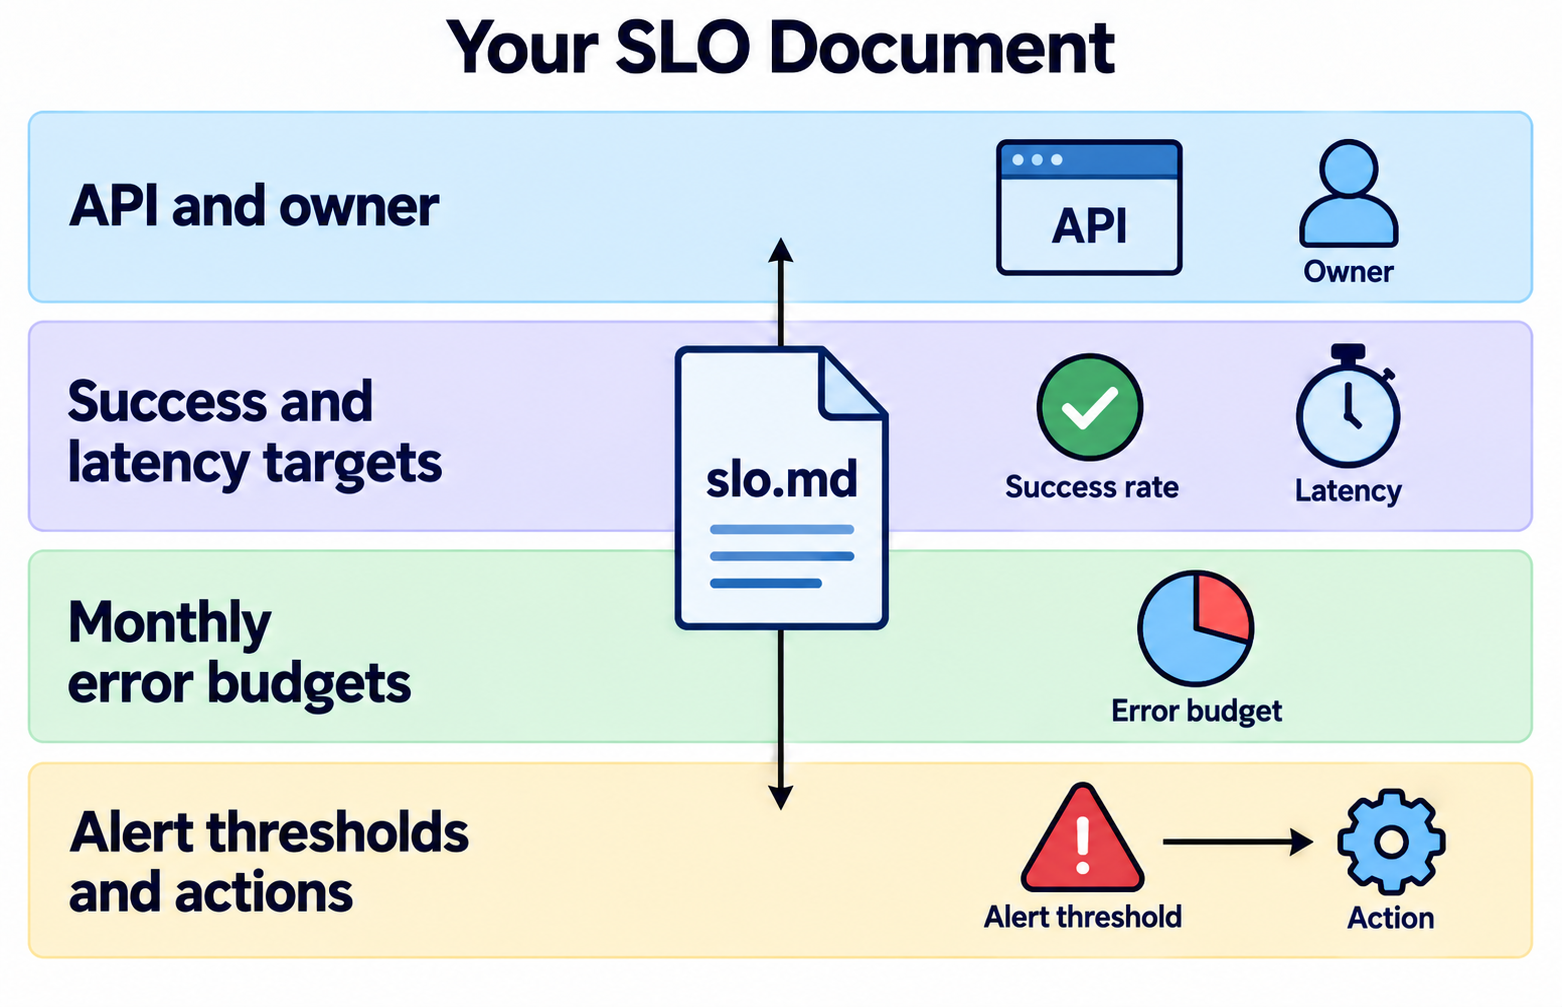
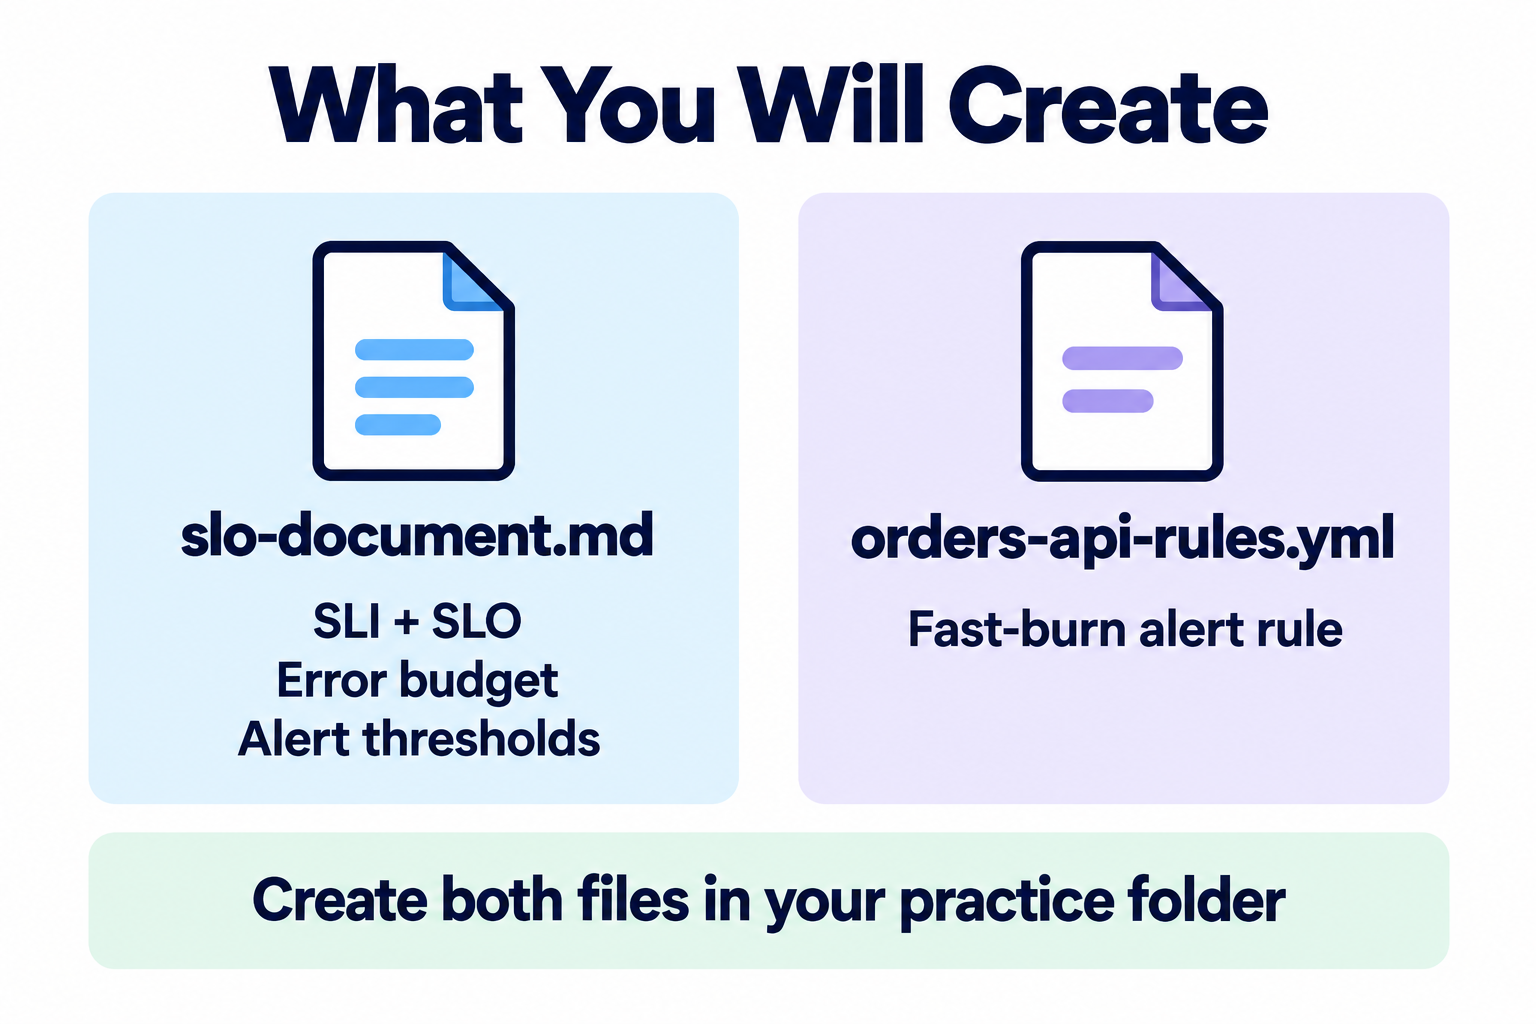
lab02

diff --git a/Milestone 1/Module 3/Lab 02/README.md b/Milestone 1/Module 3/Lab 02/README.md
@@ -1,185 +1,194 @@
-# API SLOs and Error Budgets
+# SLOs and Error Budgets
 
-![API requests become reliability targets and error budgets](images/thumb.png)
+![Set a 99.9% target, allow a 0.1% error budget, and watch for fast burn](images/thumb.png)
 
-Define good API responses, set reliability targets, and calculate how many bad responses a sample API can afford.
+An application programming interface (API) lets programs request data or actions. Define good service for an Orders API, calculate its failure allowance, and write a fast-burn alert.
 
 ## Objective
 
-![Measure results, set targets, and track budget](images/objective.png)
+![Set a target, calculate its error budget, and watch for fast burn](images/thumb.png)
 
 By the end of this lab, you can:
-- Define service level indicators (SLIs), measurements of user experience.
-- Set service level objectives (SLOs), targets for those measurements.
-- Calculate a monthly error budget and its burn-rate thresholds.
+- Define a service level indicator (SLI), a measurement of service quality.
+- Set a service level objective (SLO), a target for that measurement.
+- Calculate an error budget and choose burn-rate alerts.
 
 ## Deliverable
 
-![One SLO document contains definitions, budgets, and alerts](images/deliverable.png)
+![Create an SLO document and its supporting alert rule in a practice folder](images/deliverable.png)
 
-A Markdown file named `slo.md` with targets, query sketches, budgets, and alert thresholds. You need a text editor; Prometheus is optional.
+Build `slo-document.md` and its supporting `orders-api-rules.yml` in a separate practice folder. All content is included below.
 
-## What Are SLIs and SLOs?
+You need a Markdown editor and `promtool`, the Prometheus rule checker. No server is required. Linux setup is below; other platforms use [Prometheus downloads](https://prometheus.io/download/).
 
-![Observed API results are compared with a target](images/sli-slo.png)
+## SLI and SLO
 
-An SLI measures what happened. An SLO states how often that result should be good. A service level agreement (SLA) is a separate agreement that can include consequences for missing a promise.
+![Exclude cancellations and health checks before dividing good requests by valid requests](images/sli.png)
 
-| Term | Sample meaning |
-| --- | --- |
-| Success SLI | Fraction of requests returning HTTP 200 |
-| Success SLO | At least 99.9% return HTTP 200 |
-| Latency SLI | Fraction returning HTTP 200 within 300 ms |
-| Latency SLO | At least 99% meet that condition |
+An SLI measures results; an SLO sets the target. Our availability SLI counts requests without server errors. The gateway, the API's entry point, records each final HTTP status, a response code describing the outcome.
 
-## What Is an Error Budget?
+Here, 4xx responses count as good: the server handled an invalid request. Exclude cancelled requests, code 499, from both counts. This policy is specific to our API.
 
-![Allowed bad fraction multiplied by requests gives the budget](images/error-budget.png)
+## Error Budget and Burn Rate
 
-An error budget permits some bad service. Here, monthly means a rolling 30 days, or 720 hours. These budgets count requests, not minutes.
+![A 99.9% target permits 10,000 bad requests from ten million valid requests](images/budget.png)
 
-Budget equals total eligible requests multiplied by one minus the SLO. Keep the two budgets separate: a failed request counts against both, but a slow HTTP 200 counts only against latency.
+An error budget is the allowed bad fraction: `1 - SLO`. Multiply by valid requests to find the allowance. Monthly means rolling 30 days here.
 
-## Step 1: Define the API Contract
+Burn rate equals observed error ratio divided by allowed bad fraction. At steady traffic, a sustained 1x rate spends a fresh budget in 30 days; 14.4x spends it in 50 hours. A request-based SLI does not directly give downtime minutes.
 
-![Client requests are measured at the API gateway](images/step-1.png)
+## Step 1: Write the SLI
 
-Create `slo.md` and add this contract. The gateway observes incoming requests and their final outcomes.
+![Requests pass through exclusions before classification as good or bad](images/sli.png)
+
+Create `slo-document.md` in your practice folder and add this contract.
 
 ```markdown
-# Sample API SLO
+# Orders API SLO
 
-## Contract
-- Service: catalogue-api
-- Endpoint: GET /products
-- Owner: API team
-- Window: rolling 30 days
-- Eligible traffic: production GET /products requests received by the gateway.
-- Exclude health checks, metrics scrapes, and synthetic test traffic.
-- Count each retry as another request.
-- Success: HTTP 200. All other final statuses are bad, including 4xx and 5xx.
-- Gateway timeouts count as HTTP 504 outcomes.
-- Fast success: HTTP 200 with gateway duration at most 0.3 seconds.
-- Success target: 99.9% of eligible requests.
-- Fast-success target: 99% of eligible requests.
-- Requests that never reach the gateway require separate external monitoring.
+## SLI
+- Service: orders-api; owner: Orders API team.
+- Source: production gateway request counts.
+- Valid: completed requests, excluding code 499 and route /healthz.
+- Good: valid requests with HTTP 2xx, 3xx, or 4xx.
+- Bad: valid requests with HTTP 5xx, including gateway timeout 504.
+- SLI = good requests / valid requests.
+- Count each retry separately.
+- Use checks from outside the system for requests that never reach the gateway.
 ```
-**What this file does:** Defines which requests count and what makes each response good.
+**What this file does:** Defines the population and outcome used to measure availability.
 
 ---
 
-## Step 2: Write the SLI Queries
+## Step 2: Calculate the Error Budget
 
-![Good outcomes divided by all eligible outcomes form each SLI](images/step-2.png)
+![Subtract 4,000 failures from the 10,000-request allowance to leave 6,000](images/budget.png)
 
-Add these sketches under `Measurement`. Assume gateway metrics with `job="catalogue-api"` contain only eligible traffic. Counter `api_requests_total` counts outcomes by `status`; classic histogram `api_request_duration_seconds` records every outcome with that status and a `0.3`-second bucket.
+Append this worked example. Use actual valid request counts when evaluating a real month.
 
-```promql
-sum(increase(api_requests_total{job="catalogue-api",status="200"}[30d]))
-/
-sum(increase(api_requests_total{job="catalogue-api"}[30d]))
+```markdown
+## SLO
+- Availability target: at least 99.9%, over a rolling 30 days.
+
+## Monthly Error Budget
+- Allowed bad fraction: 1 - 0.999 = 0.001 = 0.1%.
+- Allowed bad requests: 10,000,000 x 0.001 = 10,000.
+
+| Measure | Calculation or value |
+| --- | --- |
+| Valid requests | 10,000,000 |
+| Allowed failures | 10,000 |
+| Observed failures | 4,000 |
+| Remaining budget | 10,000 - 4,000 = 6,000 |
+| Consumed budget | 4,000 / 10,000 = 40% |
+
+- Observed SLI: 1 - 4,000 / 10,000,000 = 99.96%; target met.
 ```
-**Explanation:** Divides successful requests by all eligible requests across the rolling window.
-
-```promql
-sum(increase(api_request_duration_seconds_bucket{job="catalogue-api",status="200",le="0.3"}[30d]))
-/
-sum(increase(api_request_duration_seconds_count{job="catalogue-api"}[30d]))
-```
-**Explanation:** Divides fast successful responses by all eligible responses, including failures.
-
-Results are fractions: `0.999` means 99.9%. Prometheus `increase()` accounts for counter resets and estimates the increase over the selected window. See the official [query functions](https://prometheus.io/docs/prometheus/latest/querying/functions/) and [histogram guidance](https://prometheus.io/docs/practices/histograms/).
-
-Initialize expected status series, including HTTP 200, to zero. A zero denominator means no traffic, not perfect service. Missing samples mean unknown health: check telemetry separately, and retain at least 30 days of data.
+**What this file does:** Records a checkable target, budget, and measured outcome.
 
 ---
 
-## Step 3: Calculate the Monthly Budgets
+## Step 3: Set the Burn-Rate Thresholds
 
-![Ten million requests produce two separate budgets](images/step-3.png)
+![Fast and medium burn page the on-call engineer; slow burn creates a ticket](images/burn-rate.png)
 
-Add a `Budgets` section using this worked example: 10,000,000 eligible requests, 4,000 failed responses, and another 26,000 slow successful responses during 30 days.
+Copy this table under `## Alerts`. Both windows must exceed their threshold. The longer window detects sustained damage; the shorter confirms it continues.
 
-| Indicator | Allowed bad fraction | Allowed bad | Observed bad | Remaining |
+| Speed | Long + short window | Burn threshold | Error ratio | Action |
 | --- | --- | --- | --- | --- |
-| Success | 0.001 | 10,000 | 4,000 | 6,000 |
-| Fast success | 0.01 | 100,000 | 30,000 | 70,000 |
+| Fast | 1h + 5m | >14.4x | >1.44% | Page now |
+| Medium | 6h + 30m | >6x | >0.60% | Page now |
+| Slow | 3d + 6h | >1x | >0.10% | Ticket |
 
-Observed SLIs are 99.96% success and 99.7% fast success. Both pass. Recalculate allowances from actual traffic. A negative remaining budget means the objective was missed.
+These windows follow [Google's reliability guidance](https://sre.google/workbook/alerting-on-slos/). For example, `14.4 x 0.001 = 1.44%` errors spends 2% of the budget per hour at steady traffic. A page calls the on-call engineer; a ticket schedules work.
 
----
-
-## Step 4: Set Burn-Rate Thresholds
-
-![A sustained bad-request rate consumes the budget](images/step-4.png)
-
-Burn rate is the observed bad fraction divided by the allowed bad fraction. At 1x, a sustained rate uses a full budget in 30 days. At 10x, it uses one in three days, assuming steady traffic and an initially unused budget.
-
-Add these thresholds to an `Alerts` section. A page calls the on-call engineer; a ticket schedules investigation. Both windows in a row must exceed the threshold for the same SLI.
-
-| Action | Burn rate | Long window | Short window | Budget share in long window |
-| --- | --- | --- | --- | --- |
-| Page | 14.4x | 1 hour | 5 minutes | 2% |
-| Page | 6x | 6 hours | 30 minutes | 5% |
-| Ticket | 3x | 1 day | 2 hours | 10% |
-
-These pairs follow [Google's SRE alerting guidance](https://sre.google/workbook/alerting-on-slos/). Budget share equals burn rate times window hours divided by 720, assuming steady traffic. Use actual request counts to measure budget consumption when traffic varies.
+Add the response policy: investigate pages immediately; review tickets next working day. When the rolling budget is exhausted, pause nonessential releases and prioritize reliability fixes.
 
 ---
 
-## 5. Run the Following Queries in Prometheus
+## Step 4: Write the Fast-Burn Rule
 
-![Worked query results show budget use and fast burn](images/run-output.png)
+![Both error-ratio windows must exceed 1.44% for two minutes](images/alert-workflow.png)
 
-Calculate these values by hand in `slo.md`, or paste each expression into Prometheus. These expressions need no API metrics.
+Create `orders-api-rules.yml` beside your document. The counter `http_requests_total` counts requests; labels `job`, `code`, and `route` identify the service, response code, and path. Each label combination is a time series, a sequence of measurements. Start good-response counts at zero.
 
-```promql
-10000000 * (1 - 0.999)
+```yaml
+groups:
+  - name: orders-api-slo
+    rules:
+      - alert: OrdersAPIErrorBudgetBurnFast
+        expr: |
+          (
+            1 - sum(rate(http_requests_total{job="orders-api",code!~"5..|499",route!="/healthz"}[1h]))
+            / sum(rate(http_requests_total{job="orders-api",code!="499",route!="/healthz"}[1h]))
+            > 0.0144
+          )
+          and
+          (
+            1 - sum(rate(http_requests_total{job="orders-api",code!~"5..|499",route!="/healthz"}[5m]))
+            / sum(rate(http_requests_total{job="orders-api",code!="499",route!="/healthz"}[5m]))
+            > 0.0144
+          )
+        for: 2m
+        labels:
+          severity: page
+        annotations:
+          summary: "orders-api is burning its error budget fast"
 ```
-**Explanation:** Calculates the success budget of approximately 10,000 requests.
+**What this file does:** Calculates one minus the good-request fraction and checks both fast-burn windows.
 
-```promql
-4000 / 10000 * 100
+`rate()` estimates requests per second, handling counts that restart at zero. `for: 2m` requires two minutes of matching results. Missing measurements or no traffic means unknown health, not 100% availability.
+
+Reference this file as the fast-alert query sketch. Medium and slow rules are extension work using the table's settings. Adjust alerts for low traffic before production use.
+
+---
+
+## 5. Run the Following Commands in the Terminal
+
+![Promtool reports SUCCESS: 1 rules found for orders-api-rules.yml](images/run-output.png)
+
+In your practice folder, install the checker on Linux x86-64 if needed. Keep each command on one line.
+
+```bash
+# paste this as one line
+curl -fLO https://github.com/prometheus/prometheus/releases/download/v3.5.0/prometheus-3.5.0.linux-amd64.tar.gz
 ```
-**Explanation:** Shows that the sample failures consumed 40% of the success budget.
+**Explanation:** Downloads the official Prometheus release into your practice folder.
 
-```promql
-0.02 / (1 - 0.999)
+```bash
+tar -xzf prometheus-3.5.0.linux-amd64.tar.gz
 ```
-**Explanation:** Shows that a current 2% failure fraction burns the success budget at approximately 20x.
+**Explanation:** Extracts the downloaded tools.
 
-**What to expect:** Approximately `10000`, `40`, and `20`, allowing for rounding. A 20x burn triggers a fast page only when both windows exceed the threshold.
-
-For an instrumented API, add this fast-page query sketch to your document:
-
-```promql
-(
-  (1 - sum(rate(api_requests_total{job="catalogue-api",status="200"}[1h]))
-  / sum(rate(api_requests_total{job="catalogue-api"}[1h]))) / 0.001 > 14.4
-)
-and
-(
-  (1 - sum(rate(api_requests_total{job="catalogue-api",status="200"}[5m]))
-  / sum(rate(api_requests_total{job="catalogue-api"}[5m]))) / 0.001 > 14.4
-)
+```bash
+./prometheus-3.5.0.linux-amd64/promtool check rules orders-api-rules.yml
 ```
-**Explanation:** Returns a result when both the one-hour and five-minute success burn rates exceed 14.4x.
+**Explanation:** Validates your rule without starting a server.
 
-For latency, use one minus the fast-success fraction and divide by `0.01`, with the same windows. Document the response policy: investigate pages immediately; when either monthly budget is exhausted, pause nonessential releases and prioritize reliability fixes. Low traffic requires separate alert tuning.
+If your terminal already recognizes `promtool`, use this instead:
+
+```bash
+promtool check rules orders-api-rules.yml
+```
+**Explanation:** Checks the same file using an existing installation.
+
+**What to expect:** `SUCCESS: 1 rules found`. This checks file structure, not live measurements or delivered alerts. Production also needs data collection and alert delivery; see the [Prometheus rule documentation](https://prometheus.io/docs/prometheus/latest/configuration/recording_rules/).
+
+Check your understanding: `0.02 / 0.001 = 20x` burn. A sustained 2% error ratio triggers the fast alert when both windows exceed 14.4x for two minutes.
 
 ## Verification Checklist
 
-![Check the contract, calculations, queries, and response policy](images/verification.png)
+![The checker reports that the alert rule is valid](images/run-output.png)
 
-- [ ] Eligible traffic, timeouts, and measurement boundaries are explicit.
-- [ ] Both SLIs have a target and a rolling 30-day window.
-- [ ] Remaining budgets are 6,000 and 70,000 requests.
-- [ ] A 2% failure fraction gives a 20x success burn rate.
-- [ ] Alert thresholds include both windows and an action.
-- [ ] `slo.md` includes queries and an exhausted-budget policy.
+- [ ] `slo-document.md` identifies the owner, valid requests, and bad outcomes.
+- [ ] The target uses rolling 30 days and budgets requests, not minutes.
+- [ ] The worked budget leaves 6,000 requests, with 40% consumed.
+- [ ] All three alert speeds have two windows and an action.
+- [ ] The rule excludes 499 and health checks from both counts.
+- [ ] `promtool check rules` succeeds.
 
 ## Conclusion
 
-![Use the SLO document to guide reliability decisions](images/conclusion.png)
+![Use both measurement windows to decide when to call the on-call engineer](images/alert-workflow.png)
 
-Your `slo.md` connects user outcomes to targets and actions. Next, judge whether failover restores service quickly enough.
+Your document connects API outcomes to budgets and alerts. Next, evaluate failover: switching traffic to healthy backups.
